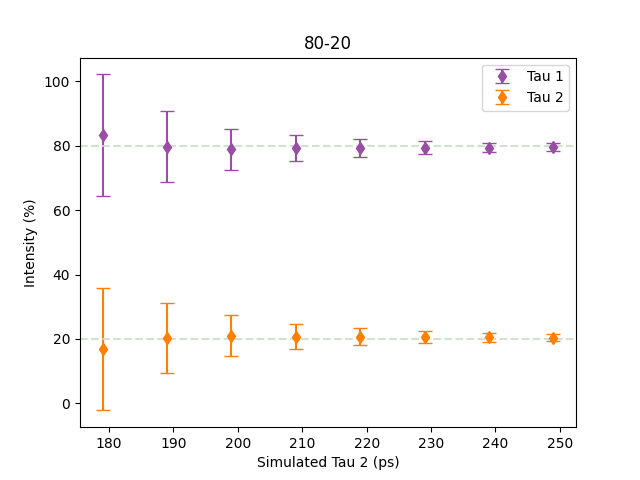
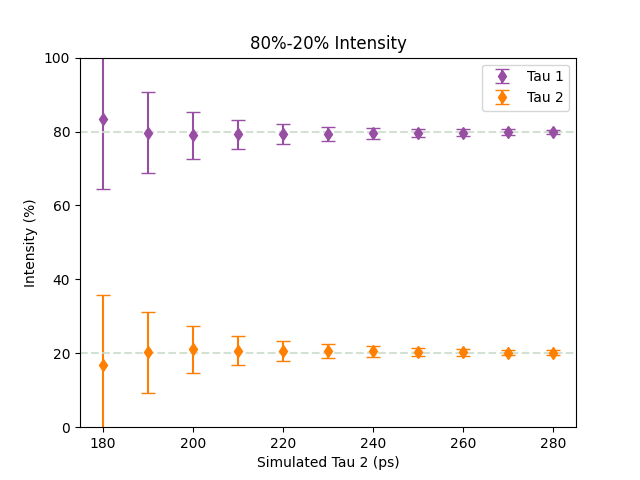
Fixed intensity scales
Fixed 0-100% y axis for all intensities

diff --git a/Batch 3/regular IRF/tau1 220/output/vis.html b/Batch 3/regular IRF/tau1 220/output/vis.html
@@ -33,14 +33,14 @@
 		</details>
 	</header>
 	
-	<img src="tau1.png">
-	<img src="tau2.png">
-	<img src="i2080.png">
-	<img src="i5050.png">
-	<img src="i8020.png">
+	<img src="t1.png">
+	<img src="t2.png">
+	<img src="2080.png">
+	<img src="5050.png">
+	<img src="8020.png">
 	
 	<div id="home">
-		<a id="home" href="..\..\..\..\visualizer.html">Home</a>
+		<a id="home" href="..\..\..\..\index.html">Home</a>
 	</div>
 	
 </body>

diff --git a/Batch 3/single Gaussian IRF/gauss100/150/output/plotter2.py b/Batch 3/single Gaussian IRF/gauss100/150/output/plotter2.py
@@ -49,6 +49,8 @@ plt.savefig("t2.png")
 plt.clf()
 
 #5050
+plt.ylim(0,100)
+
 plt.title("50%-50% Intensity")
 plt.xlabel("Simulated Tau 2 (ps)")
 plt.ylabel("Intensity (%)")
@@ -64,6 +66,8 @@ plt.clf()
 
 
 #2080
+plt.ylim(0,100)
+
 plt.title("20%-80% Intensity")
 plt.xlabel("Simulated Tau 2 (ps)")
 plt.ylabel("Intensity (%)")
@@ -71,8 +75,8 @@ plt.ylabel("Intensity (%)")
 plt.axhline(y = 80, color = g, linestyle = 'dashed')
 plt.axhline(y = 20, color = g, linestyle = 'dashed')
 
-plt.errorbar(tau_2080["Sim Life-2"]-offset, tau_2080["Int-1"], yerr=tau_2080["Std Int-1"], linestyle="none", label="Tau 1", marker="o", color=P, capsize=5)
-plt.errorbar(tau_2080["Sim Life-2"]-offset, tau_2080["Int-2"], yerr=tau_2080["Std Int-2"], linestyle="none", label="Tau 2", marker="o", color=O, capsize=5)
+plt.errorbar(tau_2080["Sim Life-2"], tau_2080["Int-1"], yerr=tau_2080["Std Int-1"], linestyle="none", label="Tau 1", marker="o", color=P, capsize=5)
+plt.errorbar(tau_2080["Sim Life-2"], tau_2080["Int-2"], yerr=tau_2080["Std Int-2"], linestyle="none", label="Tau 2", marker="o", color=O, capsize=5)
 
 plt.legend()
 plt.savefig("2080.png")
@@ -80,6 +84,8 @@ plt.clf()
 
 
 #8020
+plt.ylim(0,100)
+
 plt.title("80%-20% Intensity")
 plt.xlabel("Simulated Tau 2 (ps)")
 plt.ylabel("Intensity (%)")
@@ -87,8 +93,8 @@ plt.ylabel("Intensity (%)")
 plt.axhline(y = 80, color = g, linestyle = 'dashed')
 plt.axhline(y = 20, color = g, linestyle = 'dashed')
 
-plt.errorbar(tau_8020["Sim Life-2"]+offset, tau_8020["Int-1"], yerr=tau_8020["Std Int-1"], linestyle="none", label="Tau 1", marker="d", color=P, capsize=5)
-plt.errorbar(tau_8020["Sim Life-2"]+offset, tau_8020["Int-2"], yerr=tau_8020["Std Int-2"], linestyle="none", label="Tau 2", marker="d", color=O, capsize=5)
+plt.errorbar(tau_8020["Sim Life-2"], tau_8020["Int-1"], yerr=tau_8020["Std Int-1"], linestyle="none", label="Tau 1", marker="d", color=P, capsize=5)
+plt.errorbar(tau_8020["Sim Life-2"], tau_8020["Int-2"], yerr=tau_8020["Std Int-2"], linestyle="none", label="Tau 2", marker="d", color=O, capsize=5)
 
 plt.legend()
 plt.savefig("8020.png")

diff --git a/Batch 3/single Gaussian IRF/gauss150/150/output/plotter2.py b/Batch 3/single Gaussian IRF/gauss150/150/output/plotter2.py
@@ -49,6 +49,8 @@ plt.savefig("t2.png")
 plt.clf()
 
 #5050
+plt.ylim(0,100)
+
 plt.title("50%-50% Intensity")
 plt.xlabel("Simulated Tau 2 (ps)")
 plt.ylabel("Intensity (%)")
@@ -64,6 +66,8 @@ plt.clf()
 
 
 #2080
+plt.ylim(0,100)
+
 plt.title("20%-80% Intensity")
 plt.xlabel("Simulated Tau 2 (ps)")
 plt.ylabel("Intensity (%)")
@@ -71,8 +75,8 @@ plt.ylabel("Intensity (%)")
 plt.axhline(y = 80, color = g, linestyle = 'dashed')
 plt.axhline(y = 20, color = g, linestyle = 'dashed')
 
-plt.errorbar(tau_2080["Sim Life-2"]-offset, tau_2080["Int-1"], yerr=tau_2080["Std Int-1"], linestyle="none", label="Tau 1", marker="o", color=P, capsize=5)
-plt.errorbar(tau_2080["Sim Life-2"]-offset, tau_2080["Int-2"], yerr=tau_2080["Std Int-2"], linestyle="none", label="Tau 2", marker="o", color=O, capsize=5)
+plt.errorbar(tau_2080["Sim Life-2"], tau_2080["Int-1"], yerr=tau_2080["Std Int-1"], linestyle="none", label="Tau 1", marker="o", color=P, capsize=5)
+plt.errorbar(tau_2080["Sim Life-2"], tau_2080["Int-2"], yerr=tau_2080["Std Int-2"], linestyle="none", label="Tau 2", marker="o", color=O, capsize=5)
 
 plt.legend()
 plt.savefig("2080.png")
@@ -80,6 +84,8 @@ plt.clf()
 
 
 #8020
+plt.ylim(0,100)
+
 plt.title("80%-20% Intensity")
 plt.xlabel("Simulated Tau 2 (ps)")
 plt.ylabel("Intensity (%)")
@@ -87,8 +93,8 @@ plt.ylabel("Intensity (%)")
 plt.axhline(y = 80, color = g, linestyle = 'dashed')
 plt.axhline(y = 20, color = g, linestyle = 'dashed')
 
-plt.errorbar(tau_8020["Sim Life-2"]+offset, tau_8020["Int-1"], yerr=tau_8020["Std Int-1"], linestyle="none", label="Tau 1", marker="d", color=P, capsize=5)
-plt.errorbar(tau_8020["Sim Life-2"]+offset, tau_8020["Int-2"], yerr=tau_8020["Std Int-2"], linestyle="none", label="Tau 2", marker="d", color=O, capsize=5)
+plt.errorbar(tau_8020["Sim Life-2"], tau_8020["Int-1"], yerr=tau_8020["Std Int-1"], linestyle="none", label="Tau 1", marker="d", color=P, capsize=5)
+plt.errorbar(tau_8020["Sim Life-2"], tau_8020["Int-2"], yerr=tau_8020["Std Int-2"], linestyle="none", label="Tau 2", marker="d", color=O, capsize=5)
 
 plt.legend()
 plt.savefig("8020.png")

diff --git a/Batch 3/single Gaussian IRF/gauss180/150/output/plotter2.py b/Batch 3/single Gaussian IRF/gauss180/150/output/plotter2.py
@@ -49,6 +49,8 @@ plt.savefig("t2.png")
 plt.clf()
 
 #5050
+plt.ylim(0,100)
+
 plt.title("50%-50% Intensity")
 plt.xlabel("Simulated Tau 2 (ps)")
 plt.ylabel("Intensity (%)")
@@ -64,6 +66,8 @@ plt.clf()
 
 
 #2080
+plt.ylim(0,100)
+
 plt.title("20%-80% Intensity")
 plt.xlabel("Simulated Tau 2 (ps)")
 plt.ylabel("Intensity (%)")
@@ -71,8 +75,8 @@ plt.ylabel("Intensity (%)")
 plt.axhline(y = 80, color = g, linestyle = 'dashed')
 plt.axhline(y = 20, color = g, linestyle = 'dashed')
 
-plt.errorbar(tau_2080["Sim Life-2"]-offset, tau_2080["Int-1"], yerr=tau_2080["Std Int-1"], linestyle="none", label="Tau 1", marker="o", color=P, capsize=5)
-plt.errorbar(tau_2080["Sim Life-2"]-offset, tau_2080["Int-2"], yerr=tau_2080["Std Int-2"], linestyle="none", label="Tau 2", marker="o", color=O, capsize=5)
+plt.errorbar(tau_2080["Sim Life-2"], tau_2080["Int-1"], yerr=tau_2080["Std Int-1"], linestyle="none", label="Tau 1", marker="o", color=P, capsize=5)
+plt.errorbar(tau_2080["Sim Life-2"], tau_2080["Int-2"], yerr=tau_2080["Std Int-2"], linestyle="none", label="Tau 2", marker="o", color=O, capsize=5)
 
 plt.legend()
 plt.savefig("2080.png")
@@ -80,6 +84,8 @@ plt.clf()
 
 
 #8020
+plt.ylim(0,100)
+
 plt.title("80%-20% Intensity")
 plt.xlabel("Simulated Tau 2 (ps)")
 plt.ylabel("Intensity (%)")
@@ -87,8 +93,8 @@ plt.ylabel("Intensity (%)")
 plt.axhline(y = 80, color = g, linestyle = 'dashed')
 plt.axhline(y = 20, color = g, linestyle = 'dashed')
 
-plt.errorbar(tau_8020["Sim Life-2"]+offset, tau_8020["Int-1"], yerr=tau_8020["Std Int-1"], linestyle="none", label="Tau 1", marker="d", color=P, capsize=5)
-plt.errorbar(tau_8020["Sim Life-2"]+offset, tau_8020["Int-2"], yerr=tau_8020["Std Int-2"], linestyle="none", label="Tau 2", marker="d", color=O, capsize=5)
+plt.errorbar(tau_8020["Sim Life-2"], tau_8020["Int-1"], yerr=tau_8020["Std Int-1"], linestyle="none", label="Tau 1", marker="d", color=P, capsize=5)
+plt.errorbar(tau_8020["Sim Life-2"], tau_8020["Int-2"], yerr=tau_8020["Std Int-2"], linestyle="none", label="Tau 2", marker="d", color=O, capsize=5)
 
 plt.legend()
 plt.savefig("8020.png")

diff --git a/Batch 3/single Gaussian IRF/gauss210/150/output/plotter2.py b/Batch 3/single Gaussian IRF/gauss210/150/output/plotter2.py
@@ -49,6 +49,8 @@ plt.savefig("t2.png")
 plt.clf()
 
 #5050
+plt.ylim(0,100)
+
 plt.title("50%-50% Intensity")
 plt.xlabel("Simulated Tau 2 (ps)")
 plt.ylabel("Intensity (%)")
@@ -64,6 +66,8 @@ plt.clf()
 
 
 #2080
+plt.ylim(0,100)
+
 plt.title("20%-80% Intensity")
 plt.xlabel("Simulated Tau 2 (ps)")
 plt.ylabel("Intensity (%)")
@@ -71,8 +75,8 @@ plt.ylabel("Intensity (%)")
 plt.axhline(y = 80, color = g, linestyle = 'dashed')
 plt.axhline(y = 20, color = g, linestyle = 'dashed')
 
-plt.errorbar(tau_2080["Sim Life-2"]-offset, tau_2080["Int-1"], yerr=tau_2080["Std Int-1"], linestyle="none", label="Tau 1", marker="o", color=P, capsize=5)
-plt.errorbar(tau_2080["Sim Life-2"]-offset, tau_2080["Int-2"], yerr=tau_2080["Std Int-2"], linestyle="none", label="Tau 2", marker="o", color=O, capsize=5)
+plt.errorbar(tau_2080["Sim Life-2"], tau_2080["Int-1"], yerr=tau_2080["Std Int-1"], linestyle="none", label="Tau 1", marker="o", color=P, capsize=5)
+plt.errorbar(tau_2080["Sim Life-2"], tau_2080["Int-2"], yerr=tau_2080["Std Int-2"], linestyle="none", label="Tau 2", marker="o", color=O, capsize=5)
 
 plt.legend()
 plt.savefig("2080.png")
@@ -80,6 +84,8 @@ plt.clf()
 
 
 #8020
+plt.ylim(0,100)
+
 plt.title("80%-20% Intensity")
 plt.xlabel("Simulated Tau 2 (ps)")
 plt.ylabel("Intensity (%)")
@@ -87,8 +93,8 @@ plt.ylabel("Intensity (%)")
 plt.axhline(y = 80, color = g, linestyle = 'dashed')
 plt.axhline(y = 20, color = g, linestyle = 'dashed')
 
-plt.errorbar(tau_8020["Sim Life-2"]+offset, tau_8020["Int-1"], yerr=tau_8020["Std Int-1"], linestyle="none", label="Tau 1", marker="d", color=P, capsize=5)
-plt.errorbar(tau_8020["Sim Life-2"]+offset, tau_8020["Int-2"], yerr=tau_8020["Std Int-2"], linestyle="none", label="Tau 2", marker="d", color=O, capsize=5)
+plt.errorbar(tau_8020["Sim Life-2"], tau_8020["Int-1"], yerr=tau_8020["Std Int-1"], linestyle="none", label="Tau 1", marker="d", color=P, capsize=5)
+plt.errorbar(tau_8020["Sim Life-2"], tau_8020["Int-2"], yerr=tau_8020["Std Int-2"], linestyle="none", label="Tau 2", marker="d", color=O, capsize=5)
 
 plt.legend()
 plt.savefig("8020.png")
